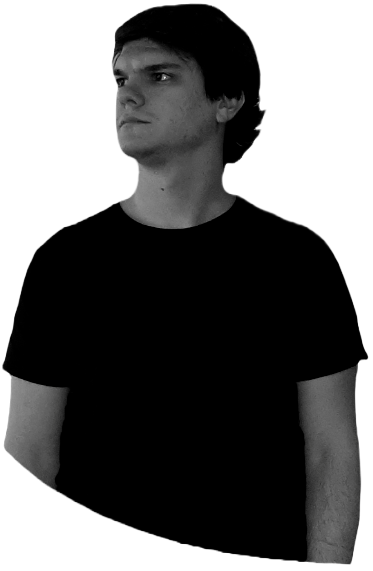
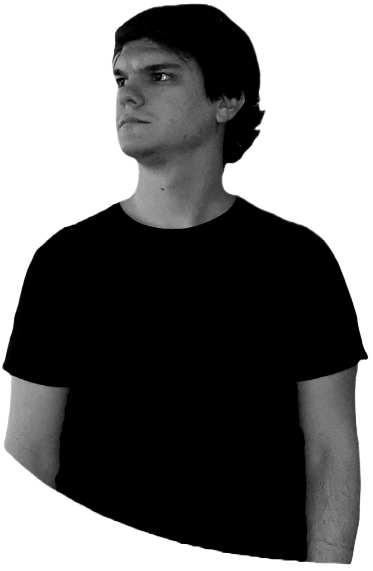
Avances

diff --git a/index.html b/index.html
@@ -38,7 +38,7 @@
                     <button>Contactame!</button>
                 </div>
                 <div class="hero-imagen">
-                        <img src="Imagenes/Imagen del Hero completa.png" alt="Ignacio Fernandez">
+                        <img src="Imagenes/Imagen del Hero 2.png" alt="Ignacio Fernandez">
                         <!-- <div class="imagen-fondo"></div> -->
                 </div>
                 <div class="redes-hero">

diff --git a/estilos.css b/estilos.css
@@ -141,8 +141,8 @@ nav a:hover::before{
     z-index: 3;
 }
 .hero-imagen img{
-    width: 30rem;
-    height: 38.5rem;
+    width: 30.3rem;
+    height: 38.7rem;
 }
 .imagen-fondo{
     position: absolute;
